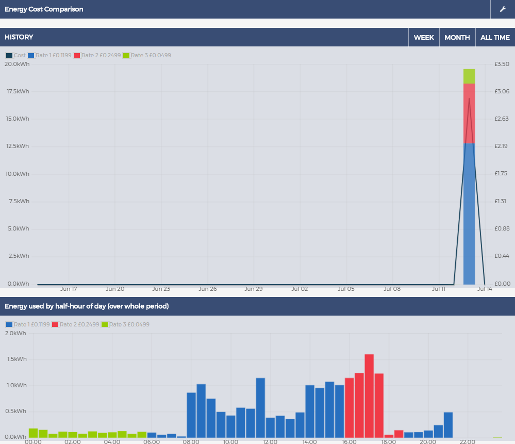
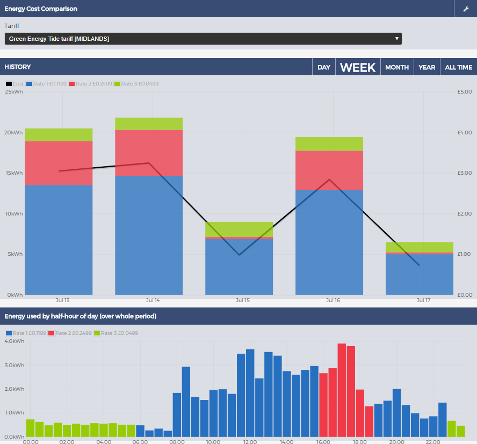
Code clean up and auto refresh

diff --git a/apps/costcomparison.php b/apps/costcomparison.php
@@ -16,9 +16,10 @@
 <script type="text/javascript" src="<?php echo $path; ?>Lib/flot/date.format.js?v=<?php echo $v; ?>"></script>
 <script type="text/javascript" src="<?php echo $path; ?>Modules/app/vis.helper.js?v=<?php echo $v; ?>"></script>
 <script type="text/javascript" src="<?php echo $path; ?>Modules/app/lib/costcomparison_rates.js?v=<?php echo $v; ?>"></script>
+
 <style>
 .block-bound {
-  background-color:#394d74;
+background-color:#394d74;
 }
 
 div.font {
@@ -31,79 +32,89 @@ padding:10px;
 }
 .selected { font-size:20pt; }
 </style>
+
 <div class="font">
-<div id="app-block" style="display:none">
-  <div class="col1">
-    <div class="col1-inner">
-    <div class="block-bound">
-      <div class="bluenav openconfig"><i class="icon-wrench icon-white"></i></div>
-      <div class="block-title">Energy Cost Comparison</div>
-    </div>
-
-<div class="graph">
-<label for="tariff">Tariff</label>
-<select id="tariff" name="tariff"></select>
+	<div id="app-block" style="display:none">
+		<div class="col1">
+			<div class="col1-inner">
+				<div class="block-bound">
+					<div class="bluenav openconfig">
+						<i class="icon-wrench icon-white"></i>
+					</div>
+					<div class="block-title">
+						Energy Cost Comparison
+					</div>
+				</div>
+				<div class="graph">
+					<label for="tariff">Tariff</label> <select id="tariff" name="tariff">
+					</select>
+				</div>
+			</div>
+		</div>
+		<div class="col1">
+			<div class="col1-inner">
+				<div class="block-bound">
+					<div class="bargraph-navigation">
+						<div class="bluenav bargraph-alltime">
+							ALL TIME
+						</div>
+						<div class="bluenav bargraph-year">
+							YEAR
+						</div>
+						<div class="bluenav bargraph-month">
+							MONTH
+						</div>
+						<div class="bluenav bargraph-week">
+							WEEK
+						</div>
+						<div class="bluenav bargraph-day">
+							DAY
+						</div>
+					</div>
+					<div class="block-title">
+						HISTORY
+					</div>
+				</div>
+				<div class="graph">
+					<div id="placeholder_bound" style="width:100%; height:500px;">
+						<div id="placeholder_legend"></div>
+						<div id="placeholder" style="width:100%; height:100%;"></div>
+					</div>
+				</div>
+			</div>
+		</div>
+		<div class="col1">
+			<div class="col1-inner">
+				<div class="block-bound">
+					<div class="block-title">
+						Energy used by half-hour of day (over whole period)
+					</div>
+				</div>
+				<div class="graph">
+					<div id="halfhour_placeholder_bound" style="width:100%; height:250px;">
+						<div id="halfhour_legend"></div>
+						<div id="halfhour_placeholder" style="height:250px"></div>
+					</div>
+				</div>
+			</div>
+		</div>
+	</div>
 </div>
-    </div>
-</div>
-
-
-<div class="col1">
-  <div class="col1-inner">
-    <div class="block-bound">
-      <div class="bargraph-navigation">
-        <div class="bluenav bargraph-alltime">ALL TIME</div>
-        <div class="bluenav bargraph-year">YEAR</div>
-        <div class="bluenav bargraph-month">MONTH</div>
-        <div class="bluenav bargraph-week">WEEK</div>
-        <div class="bluenav bargraph-day">DAY</div>
-      </div>
-      <div class="block-title">HISTORY</div>
-    </div>
-    <div class="graph">
-      <div id="placeholder_bound" style="width:100%; height:500px;">
-	    <div id="placeholder_legend"></div>
-        <div id="placeholder" style="width:100%; height:100%;"></div>
-      </div>
-    </div> 
-  </div>
-</div>
-
-<div class="col1"><div class="col1-inner">
-
-<div class="block-bound">
-<div class="block-title">Energy used by half-hour of day (over whole period)</div>
-</div>
-<div class="graph">
-<div id="halfhour_placeholder_bound" style="width:100%; height:250px;">
-<div id="halfhour_legend"></div>
-<div id="halfhour_placeholder" style="height:250px"></div>
-</div>
-</div>
-</div>
-</div>
-</div>
-</div>
-
-<div class="ajax-loader"><img src="<?php echo $path; ?>Modules/app/images/ajax-loader.gif"/></div>
-
-
-<div id="app-setup" class="block">
-    <h2 class="appconfig-title">Cost Comparison</h2>
-    <div class="appconfig-description">
-      <div class="appconfig-description-inner">
-        The Cost Comparison app allows you to compare your energy usage against energy suppliers tariffs including new time of use tariffs.
-        <br><br>
-        <b>Auto configure:</b> This app can auto-configure connecting to emoncms feeds with the names shown on the right, alternatively feeds can be selected by clicking on the edit button.
-	<br><br>
-	<b>Note:</b> If you have solar or renewable energy generation then use the import_kwh feed to view the actual cost based on energy brought from the grid
-	<br><br>
-        <b>Cumulative kWh</b> feeds can be generated from power feeds with the power_to_kwh input processor.
-        <br><br>
-        <img src="../Modules/app/images/costcomparison_app.png" style="width:600px" class="img-rounded">
-      </div>
-    </div>
-    <div class="app-config"></div>
+<div class="ajax-loader"><img src="%3C?php%20echo%20$path;%20?%3EModules/app/images/ajax-loader.gif"></div>
+<div class="block" id="app-setup">
+	<h2 class="appconfig-title">Cost Comparison</h2>
+	<div class="appconfig-description">
+		<div class="appconfig-description-inner">The Cost Comparison app allows you to compare your energy usage against energy suppliers tariffs including new time of use tariffs.<br>
+		<br>
+		<b>Auto configure:</b> This app can auto-configure connecting to emoncms feeds with the names shown on the right, alternatively feeds can be selected by clicking on the edit button.<br>
+		<br>
+		<b>Note:</b> If you have solar or renewable energy generation then use the import_kwh feed to view the actual cost based on energy brought from the grid<br>
+		<br>
+		<b>Cumulative kWh</b> feeds can be generated from power feeds with the power_to_kwh input processor.<br>
+		<br>
+		<img class="img-rounded" src="../Modules/app/images/costcomparison_app.png" style="width:600px"></div>
+	</div>
+	<div class="app-config"></div>
 </div>
 
 
@@ -127,7 +138,8 @@ config.app = {
     "use_kwh": {
         "type": "feed",
         "autoname": "use_kwh",
-        "engine": 5
+        "engine": 5, 
+		"description": "Use import_kwh if you have solar or renewable energy, otherwise use_kwh."		
     },
     "currency": {
         "type": "value",
@@ -147,15 +159,12 @@ config.db = <?php echo json_encode($config); ?>;
 config.feeds = feed.list();
 
 config.initapp = function() {
-	//console.log('initapp');
     init()
 };
 config.showapp = function() {
-	//console.log('showapp');
     show()
 };
 config.hideapp = function() {
-	//console.log('hideapp');
     hide()
 };
 
@@ -164,7 +173,6 @@ config.hideapp = function() {
 // ----------------------------------------------------------------------
 var feeds = {};
 var meta = {};
-//var data = {};
 var rate = [];
 
 var bargraph_series = [];
@@ -185,13 +193,13 @@ var days = ["Sun", "Mon", "Tue", "Wed", "Thu", "Fri", "Sat"];
 var months = ["Jan", "Feb", "Mar", "Apr", "May", "Jun", "Jul", "Aug", "Sep", "Oct", "Nov", "Dec"];
 
 var selected_start, selected_end;
+var updaterinst = false;
 
 // ----------------------------------------------------------------------
 // Display
 // ----------------------------------------------------------------------
 $(window).ready(function() {
-
-    $(".ajax-loader").hide();
+    
 });
 
 
@@ -202,7 +210,6 @@ $( "#tariff" ).change(function() {
     if (newTariff===energy_rates[t].identifier) {
     	selected_energy_rate = energy_rates[t];
 		reloadExistingRange();
-		$(".ajax-loader").hide();
 		break;
     }
   }
@@ -243,14 +250,18 @@ function show() {
 
     resize();
 	
-	if (selected_start==null) {	oneweek(); $(".bargraph-week").addClass("selected");} else {	reloadExistingRange(); }
-	$(".ajax-loader").hide();
+	updater();
+	
+	//Update every 15 seconds
+	updaterinst = setInterval(updater,15000);
+}
+
+function updater() {
+	if (selected_start==null) {	oneweek(); $(".bargraph-week").addClass("selected");} else { reloadExistingRange(); }
 }
 
 function clearHighlight() {
-
-$(".bargraph-navigation .bluenav").removeClass("selected");
-
+	$(".bargraph-navigation .bluenav").removeClass("selected");
 }
 
 
@@ -351,6 +362,7 @@ function timeFormatter(ms) {
 
 function hide() {
     //We should stop any timers we have started here
+	clearInterval(updaterinst);
 }
 
 $("#halfhour_placeholder").bind("plothover", function(event, pos, item) {
@@ -434,6 +446,8 @@ function newFilledArray(len, val) {
 }
 
 function bargraph_load(start, end) {
+	
+	$(".ajax-loader").show();
 	//console.log('bargraph_load',new Date(start),new Date(end));
 	//console.log('bargraph_load',start,end);
 
@@ -605,7 +619,8 @@ function bargraph_load(start, end) {
             clickable: false
         });
     } //end for
-
+	
+	$(".ajax-loader").hide();
 } //end function
 
 function halfhour_usage_bargraph_draw() {

diff --git a/available_apps.php b/available_apps.php
@@ -21,6 +21,11 @@ $available_apps = array (
           "title"=>"My Energy", 
           "description"=>"This app extends the My Solar app by adding in a share of UK wind"
     ),
+    "costcomparison"=>array(
+        "status"=>"",
+        "title"=>"Cost Comparison",
+        "description"=>"Energy provider cost comparison with time of use tariffs"
+    ),	
     "myelectric2"=>array(
         "status"=>"Development",
         "title"=>"My Electric 2", 
@@ -40,16 +45,9 @@ $available_apps = array (
         "status"=>"Development",
         "title"=>"OpenEVSE",
         "description"=>"Explore OpenEVSE charging"
-    ),
-    //"template"=>array(
+    )    //,"template"=>array(
     //    "status"=>"Development",
     //    "title"=>"Template",
     //    "description"=>"A basic app example useful for developing new apps"
-    //),
-    "costcomparison"=>array(
-        "status"=>"Development",
-        "title"=>"Cost Comparison",
-        "description"=>"Energy provider cost comparison - based on Time of use app"
-    ),
-
+    //)
 );
